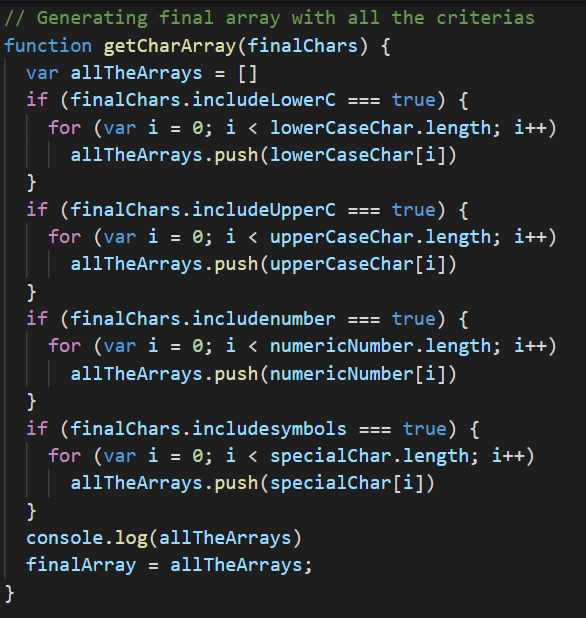
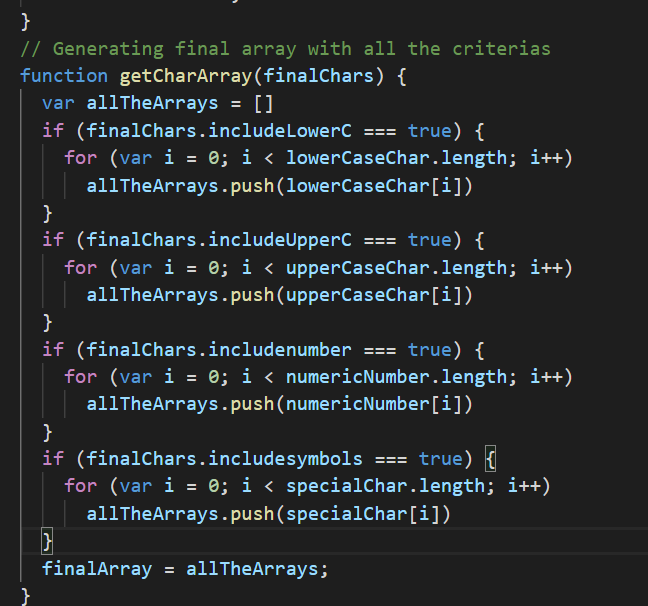
updating readme

Changed region(s): [[0.0, 0.0, 0.9522, 1.0], [0.7986, 0.7723, 0.8601, 0.8317], [0.8294, 0.7129, 0.9215, 0.7426]]

diff --git a/script.js b/script.js
@@ -46,9 +46,9 @@ function getCharSelection() {
   return finalChars;
 }
 // randomiser
-function randomPicker(array) {
-  var picker = Math.floor(Math.random() * array.length);
-  var randomChar = array[picker];
+function randomPicker() {
+  var picker = Math.floor(Math.random() * finalArray.length);
+  var randomChar = finalArray[picker];
   return randomChar;
 }
 // Generating final array with all the criterias
@@ -70,15 +70,13 @@ function getCharArray(finalChars) {
     for (var i = 0; i < specialChar.length; i++)
       allTheArrays.push(specialChar[i])
   }
-  console.log(allTheArrays)
   finalArray = allTheArrays;
 }
 
 // Gets password from array
-function getPassword(charCount) {
-  console.log(finalArray)
+function getPassword() {
   var finalpwd = ""
-  for (var i = 0; i < charCount; i++) {
+  for (var i = 0; i < selectedNumber; i++) {
     finalpwd += randomPicker(finalArray)
   }
   return finalpwd;
@@ -91,7 +89,7 @@ var generateBtn = document.querySelector("#generate");
 function writePassword() {
   getPwdLength()
   getCharArray(getCharSelection())
-  var password = getPassword(selectedNumber);
+  var password = getPassword();
   var passwordText = document.querySelector("#password");
   passwordText.innerText = password;
 }

diff --git a/README.md b/README.md
@@ -28,6 +28,7 @@ The reasoning behind having several functions instead of one function was to be 
 
 The function GetPwdLength was used to get the users input into a variable that could be used latter on in the code. 
 I needed certain criterias to be sure that the user entered in a valid length which was between 8-128 characters and that the user entered in a number, which is done by if statments
+the functions end by taking the variable charCount and becoming SelectedNumber which is in the global window.
 
 ![criterias](./Assets/criterias.png)
 
@@ -37,94 +38,18 @@ The variable finalChars is used to store the information where i could access it
 
 ![criterias](./Assets/array.png)
 
-The next function will be the getCharArray with the input of finalChars from the previous function to either confirm if the criterias will be pused into the allTheArrays variable. If the user pressed ok on the criteria includesymbols, then a for loop which will push all the special symbols that is in the specialChar array into the allTheArrays.
+The next function will be the getCharArray with the input of finalChars from the previous function to either confirm if the criterias will be pused into the allTheArrays variable. If the user pressed ok on the criteria includesymbols, then a for loop which will push all the special symbols that is in the specialChar array into the allTheArrays. The function will end with allTheArrays becoming the variable finalArray that is in the global window.
 
+![randomiser](./Assets/randomiser.png)
 
+The randomPicker function choses at random a character that the user accepted, and is added into finalarray.
 
+![Gets password](./Assets/pwd.png)
 
-## Your Task
+The final function is where we put the input we recieved earlier together. the User chose the length with selectedNumber and randomPicker randomises the code. The finalpwd is everything put together in a string form.
 
-This week’s homework requires you to modify starter code to create an application that enables employees to generate random passwords based on criteria that they’ve selected. This app will run in the browser and will feature dynamically updated HTML and CSS powered by JavaScript code that you write. It will have a clean and polished, responsive user interface that adapts to multiple screen sizes.
+## Conclussion
+I learned alot during this assignment, and even though i managed to make a password generator i am still missing one of the acceptance criteria, I could not find out a way to make sure my final password included atleast one character from each criteria. I did attempt to create som if statements and/or see if i could use the .inculded() property.
 
-The password can include special characters. If you’re unfamiliar with these, see this [list of password special characters](https://www.owasp.org/index.php/Password_special_characters) from the OWASP Foundation.
+Also i could have managed to make this password generator with the use of concat() method, instead have my complicated array function. The reason i did not use it was because i learned of it a bit to late, and i had managed that part of the code working.
 
-## User Story
-
-```
-AS AN employee with access to sensitive data
-I WANT to randomly generate a password that meets certain criteria
-SO THAT I can create a strong password that provides greater security
-```
-
-## Acceptance Criteria
-
-```
-GIVEN I need a new, secure password
-WHEN I click the button to generate a password
-THEN I am presented with a series of prompts for password criteria
-WHEN prompted for password criteria
-THEN I select which criteria to include in the password
-WHEN prompted for the length of the password
-THEN I choose a length of at least 8 characters and no more than 128 characters
-WHEN prompted for character types to include in the password
-THEN I choose lowercase, uppercase, numeric, and/or special characters
-WHEN I answer each prompt
-THEN my input should be validated and at least one character type should be selected
-WHEN all prompts are answered
-THEN a password is generated that matches the selected criteria
-WHEN the password is generated
-THEN the password is either displayed in an alert or written to the page
-```
-
-
-## Grading Requirements
-
-This homework is graded based on the following criteria: 
-
-### Technical Acceptance Criteria: 40%
-
-* Satisfies all of the preceding acceptance criteria plus the following:
-
-  * The homework should not produce any errors in the console when you inspect it using Chrome DevTools.
-
-### Deployment: 32%
-
-* Application deployed at live URL.
-
-* Application loads with no errors.
-
-* Application GitHub URL submitted.
-
-* GitHub repository that contains application code.
-
-### Application Quality: 15%
-
-* Application user experience is intuitive and easy to navigate.
-
-* Application user interface style is clean and polished.
-
-* Application resembles the mock-up functionality provided in the homework instructions.
-
-### Repository Quality: 13%
-
-* Repository has a unique name.
-
-* Repository follows best practices for file structure and naming conventions.
-
-* Repository follows best practices for class/id naming conventions, indentation, quality comments, etc.
-
-* Repository contains multiple descriptive commit messages.
-
-* Repository contains quality readme file with description, screenshot, and link to deployed application.
-
-## Review
-
-You are required to submit the following for review:
-
-* The URL of the deployed application.
-
-* The URL of the GitHub repository, with a unique name and a readme describing the project.
-
-- - -
-
-© 2020 Trilogy Education Services, LLC, a 2U, Inc. brand. Confidential and Proprietary. All Rights Reserved.
